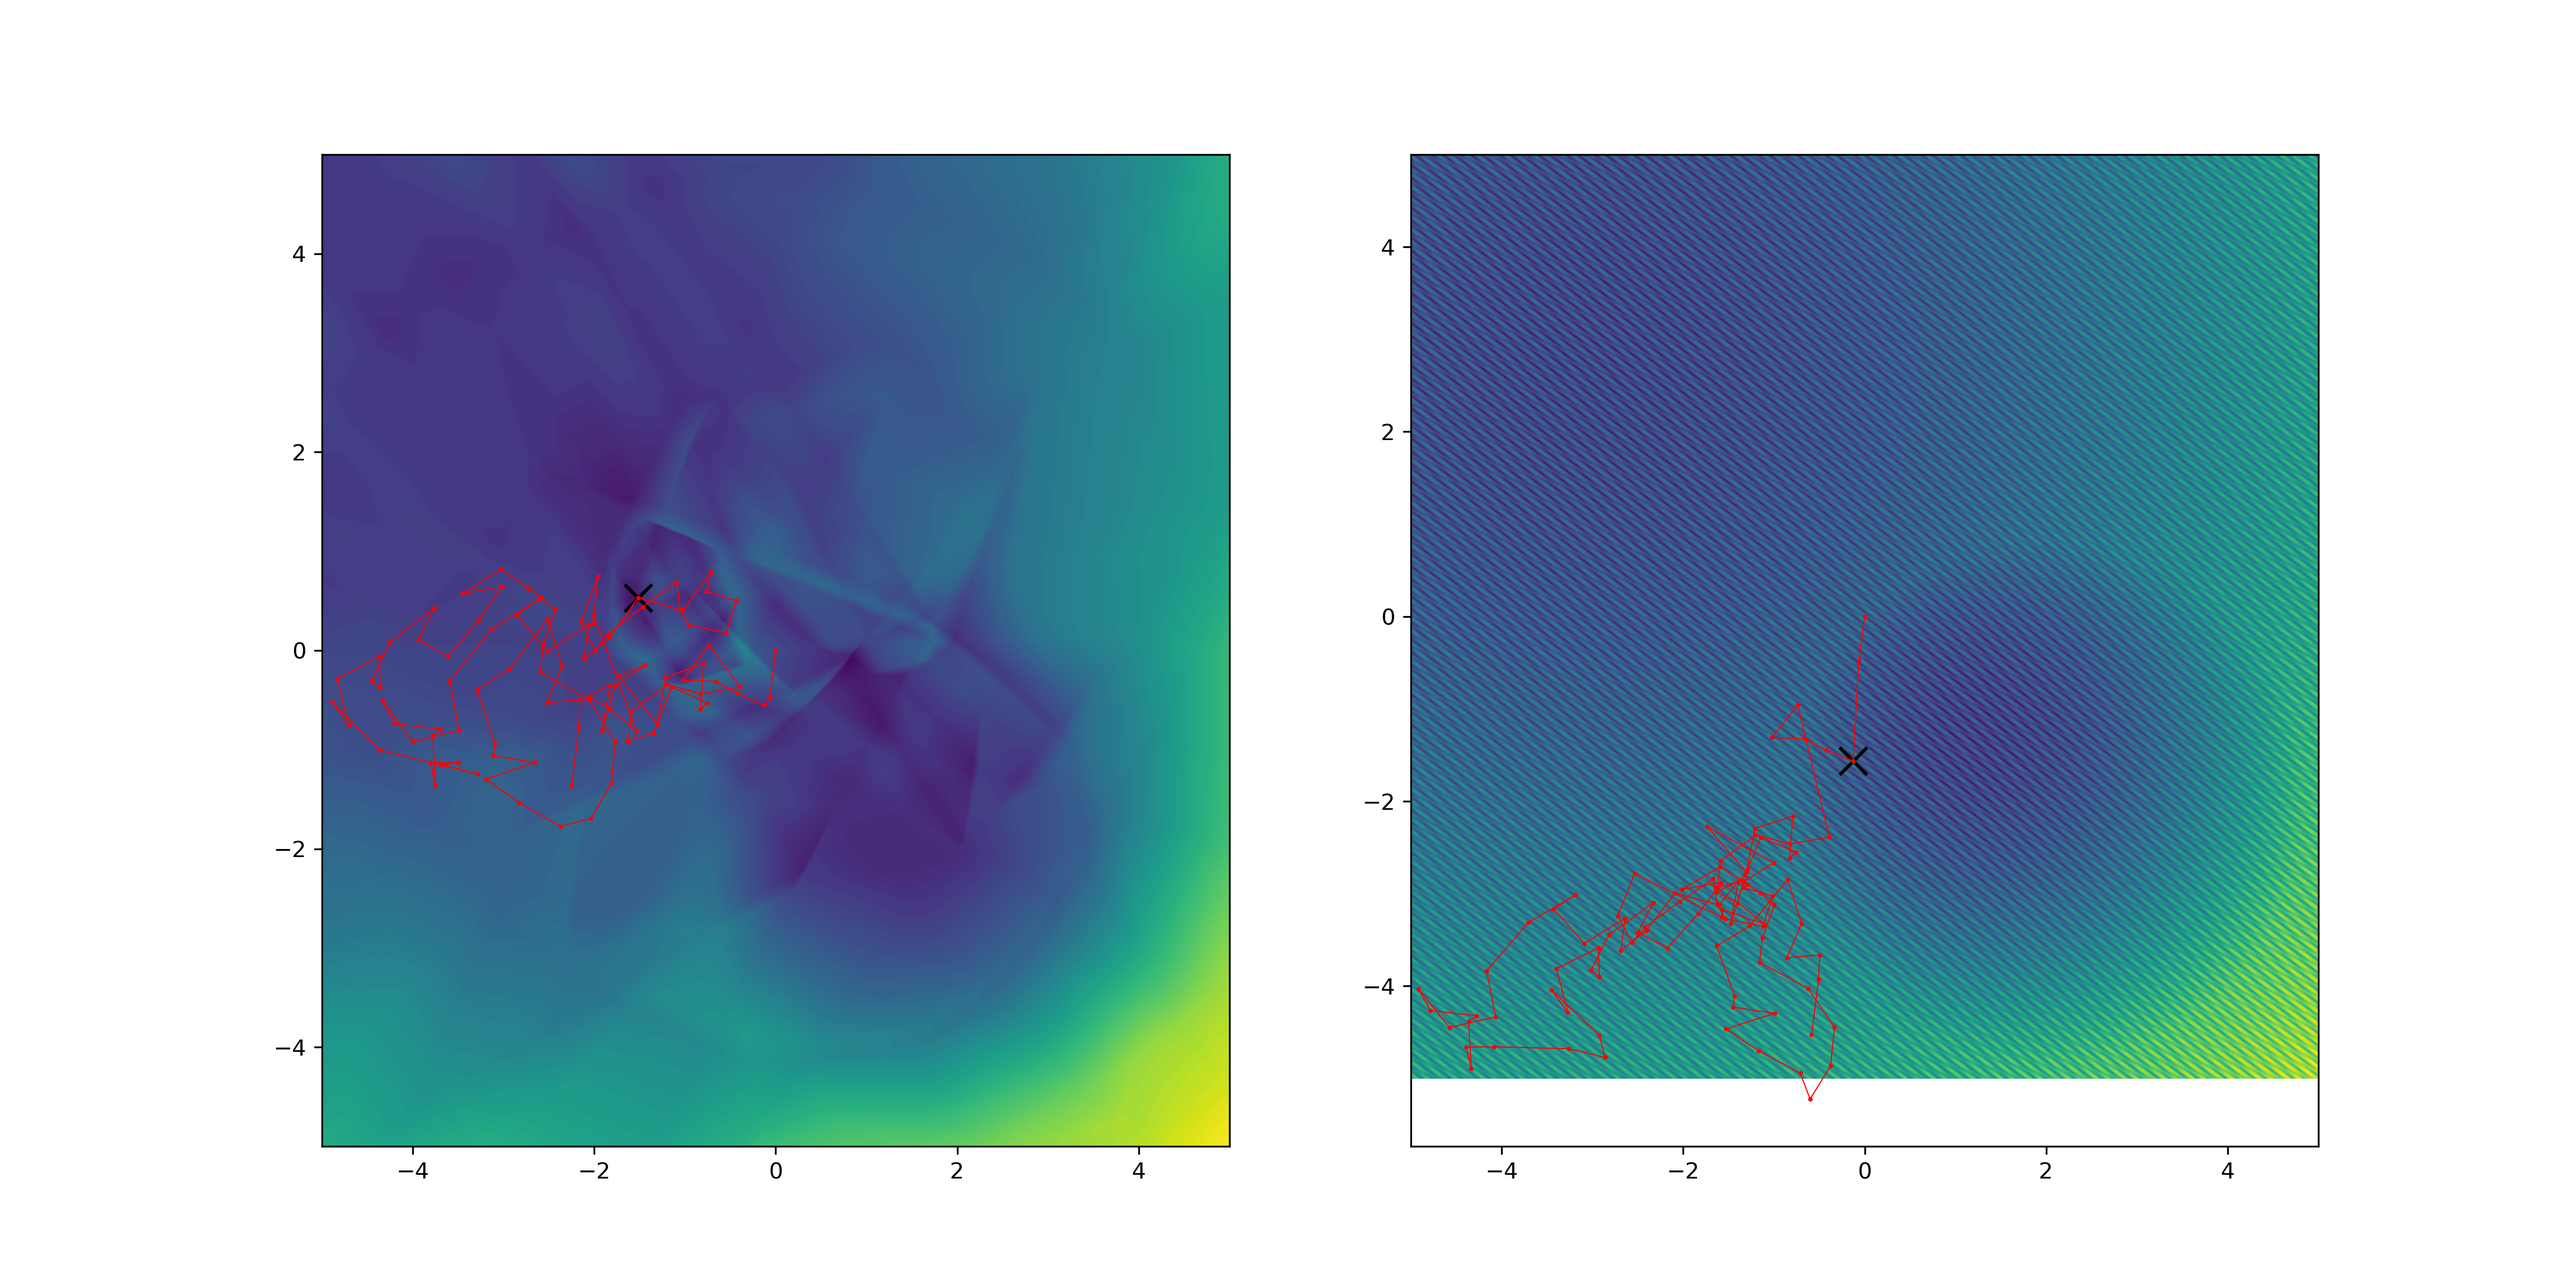
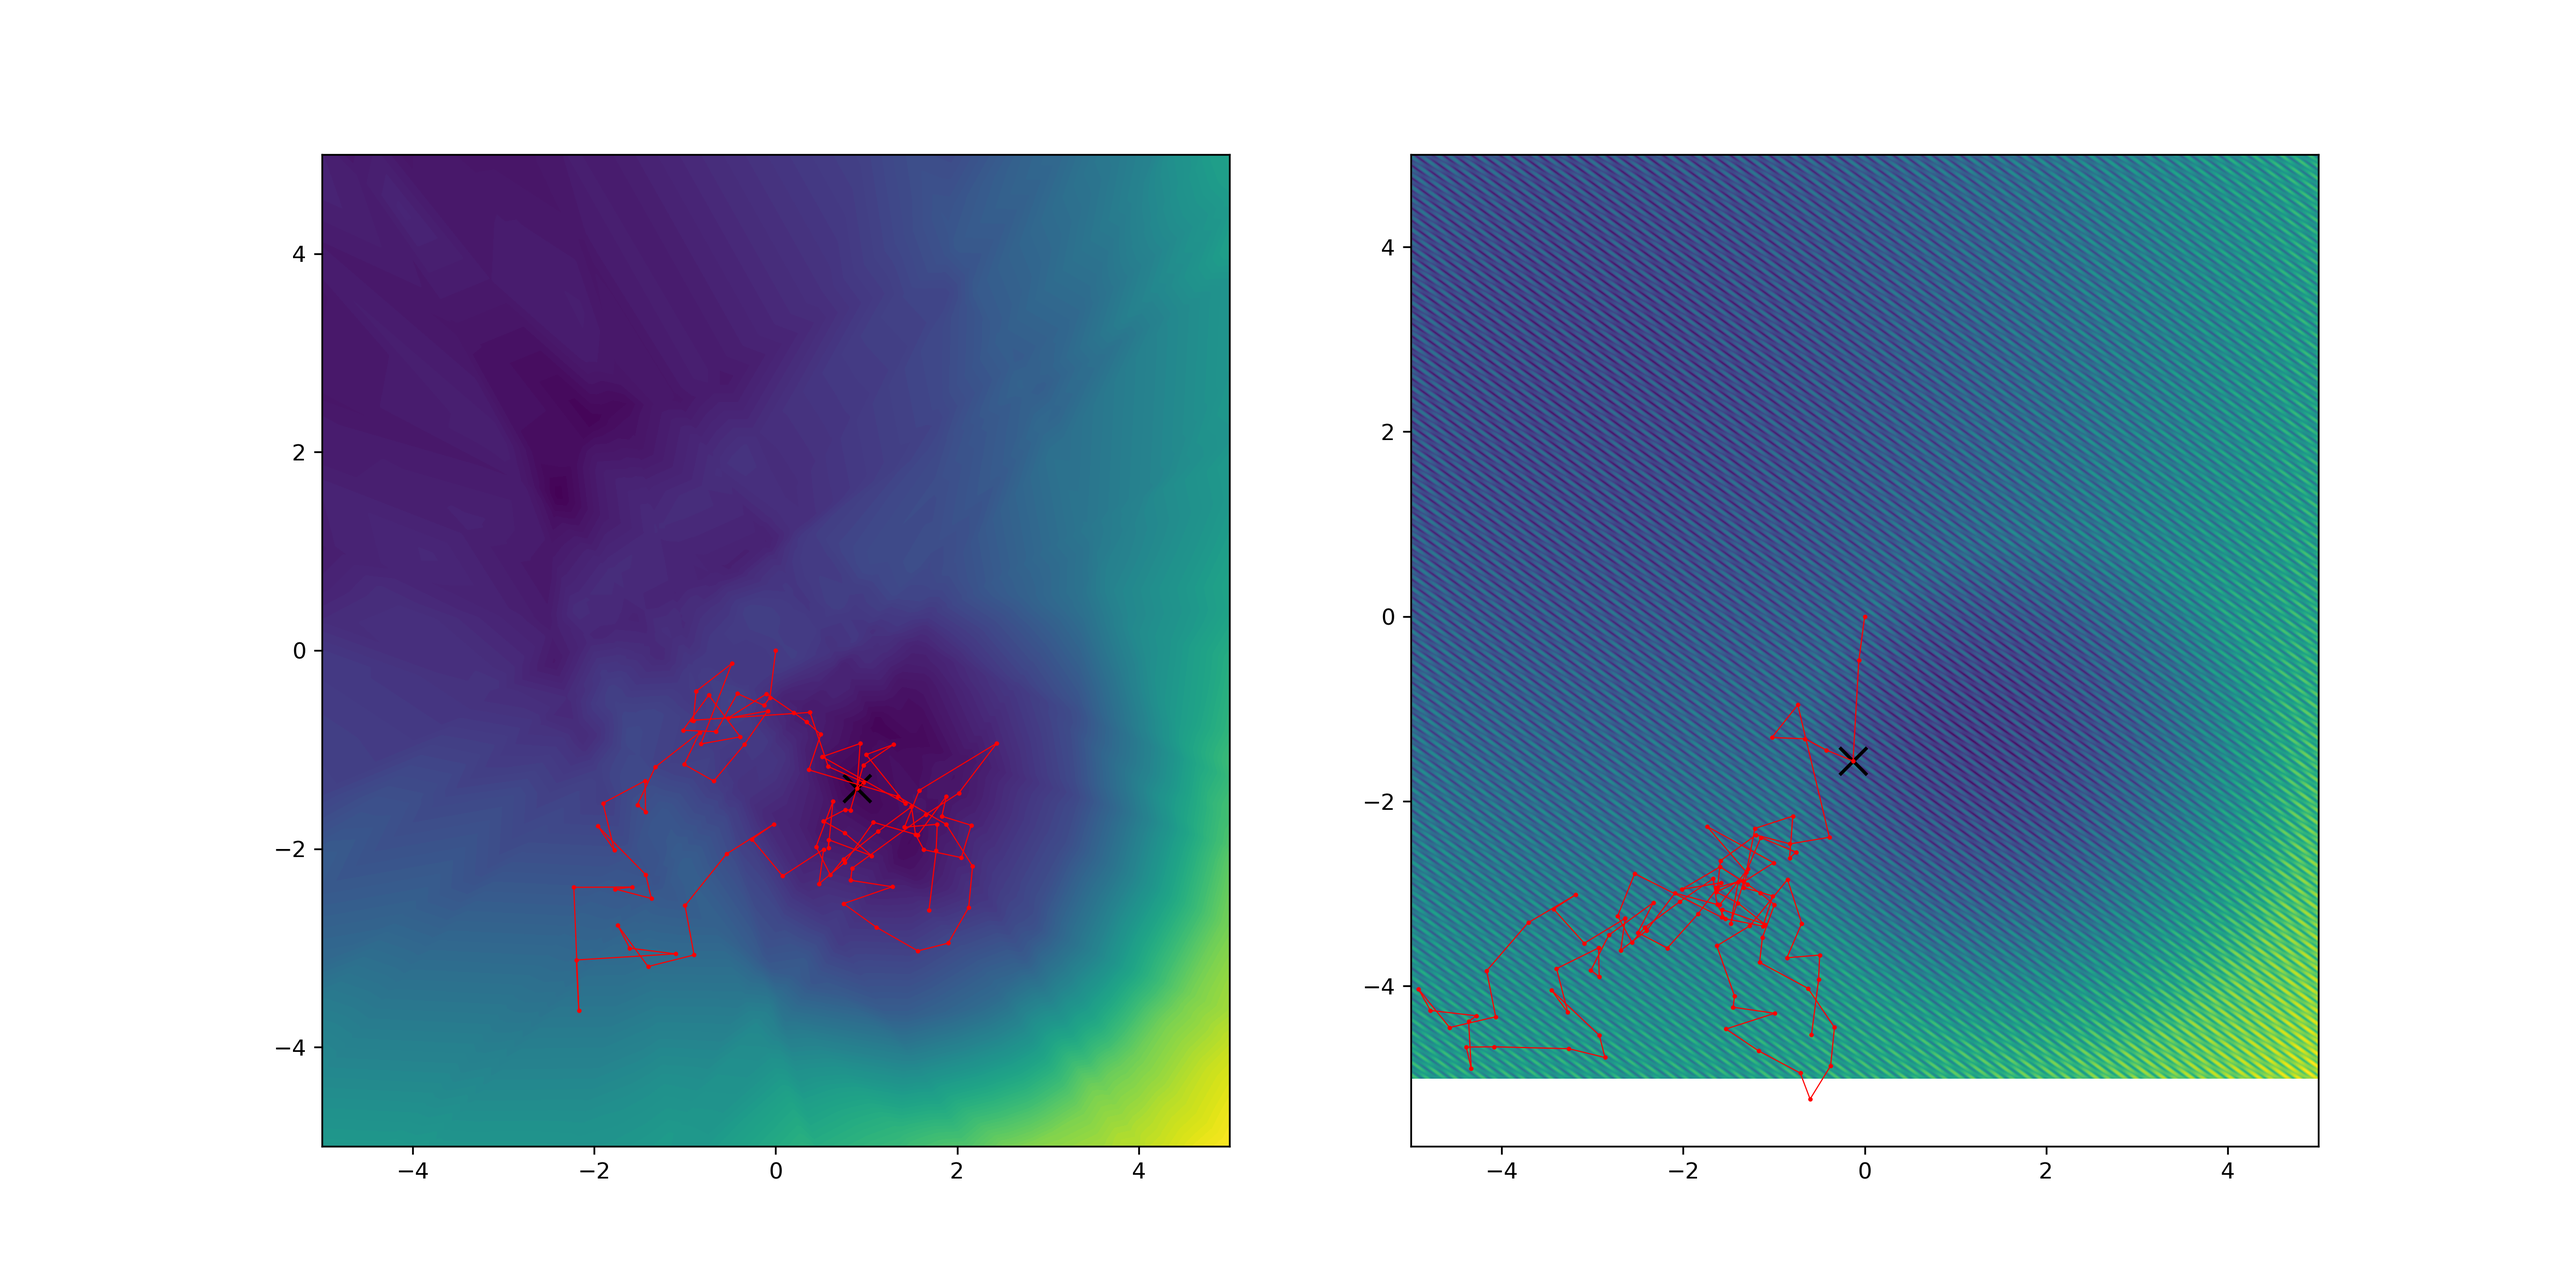
udpated distance_scatter and graphics for basinhop

diff --git a/src/Basinhop_main.py b/src/Basinhop_main.py
@@ -6,15 +6,20 @@ def main():
     step_size = 0.5
     temp=100
     models = [
-        ["f_01", "models/v3/training_v3_f01_4.pth"],
-        ["f_03","models/training_v4_f03_5.pth"],
-        ["f_24", "models/training_v4_f24_4.pth"]
+        ["f_01", "models/v3/training_v3_f01_5.pth"],
+        ["f_03","models/v3/training_v3_f03_5.pth"],
+        ["f_24", "models/v3/training_v3_f24_5.pth"],
+        ["f_01_small", "models/v3/training_v3_f01_1.pth"],
+        ["f_03_small","models/v3/training_v3_f03_1.pth"],
+        ["f_24_small", "models/v3/training_v3_f24_1.pth"]
         ]
+    
     basehop_opt = bh_optimizer(input_bounds=[(-5.0,5.0), (-5.0,5.0)])
     for model in models:
         seed = 0
-        for _ in range(3):
-            name = model[0]+"_"+str(seed)
+        for _ in range(4):
+            #name = model[0]+"_"+str(seed)
+            name = f"{model[0]}_{seed}"  
             result_nn, result_bbob, fig = basehop_opt.optimize(model_path= model[1], function =model[0], initial_guess = start, 
                                                                stepsize=step_size, T=temp, seed= seed, 
                                                                save_image=True, image_name=name)
@@ -24,7 +29,7 @@ def main():
             #distance = basehop_opt.calc_distance(point_a=result_nn.x, point_b=result_bbob.x)
             distance = np.linalg.norm(result_nn.x-result_bbob.x)
             print(distance)
-            with open('basin_results.txt', "a") as f:
+            with open('opt_results/basin_results.txt', "a") as f:
                 f.write(f"{name}")
                 f.write(f"\n")
                 f.write(f"neural-net optium: {result_nn.x}, ground-thruth optimum: {result_bbob.x}")
